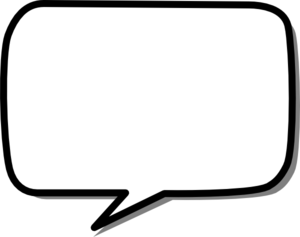
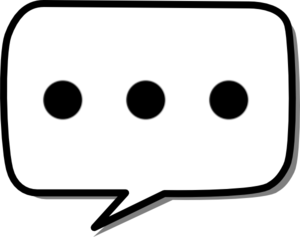
dialog box > dialog bubble

Changed region(s): [[0.69, 0.3249, 0.84, 0.5316], [0.42, 0.3249, 0.57, 0.5316], [0.12, 0.3249, 0.3, 0.5021]]

diff --git a/ArenaGame/NPC.cs b/ArenaGame/NPC.cs
@@ -11,8 +11,6 @@ namespace ArenaGame
 {
     class NPC
     {
-        
-
         public Texture2D texture;
         public Vector2 position;
         public Rectangle npcBounds;
@@ -42,9 +40,11 @@ namespace ArenaGame
 
         private Rectangle talkRectangleCollision;
 
-
         static private Texture2D characterBorder;
         static Texture2D dialogueBox;
+
+
+
         public NPC(Texture2D newTexture, Vector2 newPosition, Rectangle newNpcBounds, GraphicsDevice graphics,ContentManager Content)
         {
             randomNumber = new RandomNumber();
@@ -55,7 +55,7 @@ namespace ArenaGame
             talkRectangleCollision = new Rectangle((int)position.X-256/2,(int)position.Y-256/2,256,256);
             if(dialogueBox == null)
             {
-                dialogueBox = Content.Load<Texture2D>("Characters/dialogBox");
+                dialogueBox = Content.Load<Texture2D>("Characters/dialogBubble");
             }
             if (characterBorder == null)
             {
@@ -197,10 +197,11 @@ namespace ArenaGame
         }
         private void createDialog(SpriteBatch spriteBatch)
         {
-            Vector2 f = position;
-            f.X -= currentAnimation.CurrentRectangle.Width / 2;
-            f.Y -= dialogueBox.Height;
-            spriteBatch.Draw(dialogueBox,f , Color.White);
+            Vector2 p = position;
+            p.X -= currentAnimation.CurrentRectangle.Width - 100;
+            p.Y -= 50;
+            Rectangle dialogueRectangle = new Rectangle((int)p.X, (int)p.Y, 50, 44);
+            spriteBatch.Draw(dialogueBox, dialogueRectangle, Color.White);
         }
         private void randomMovement(GameTime gameTime)
         {
